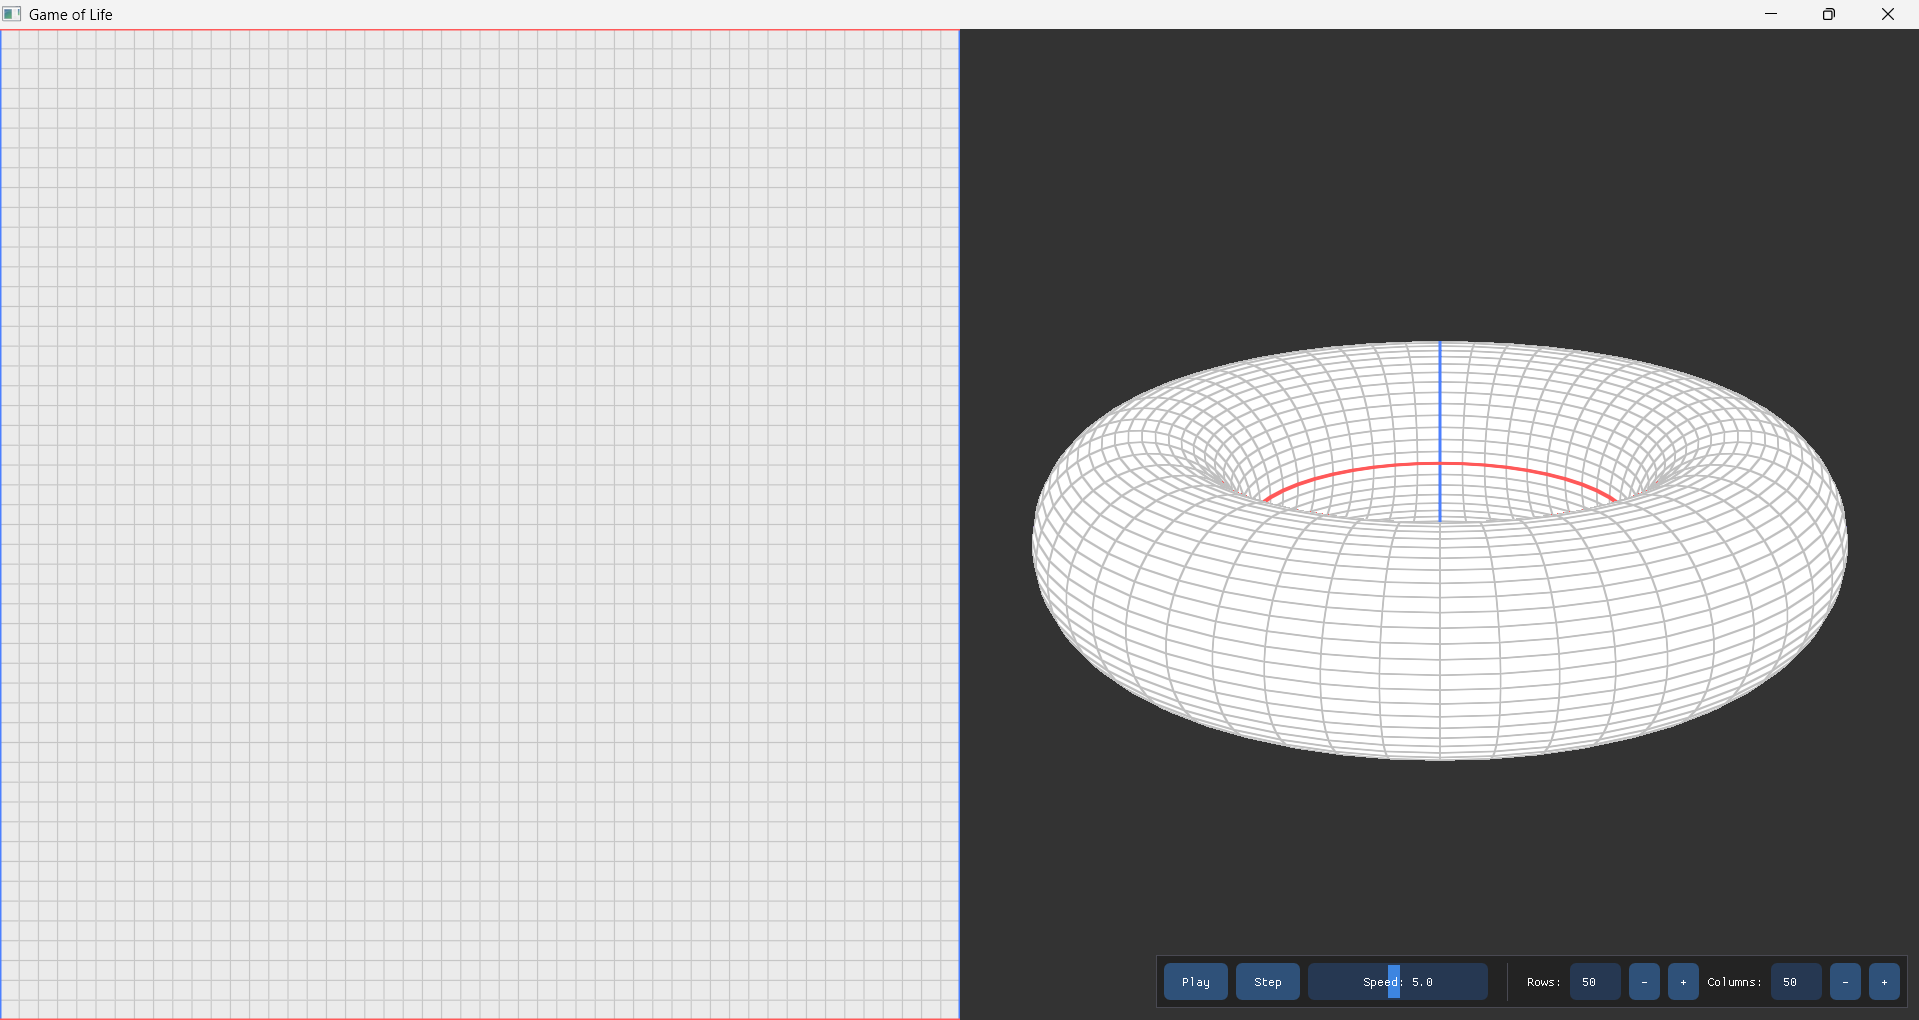
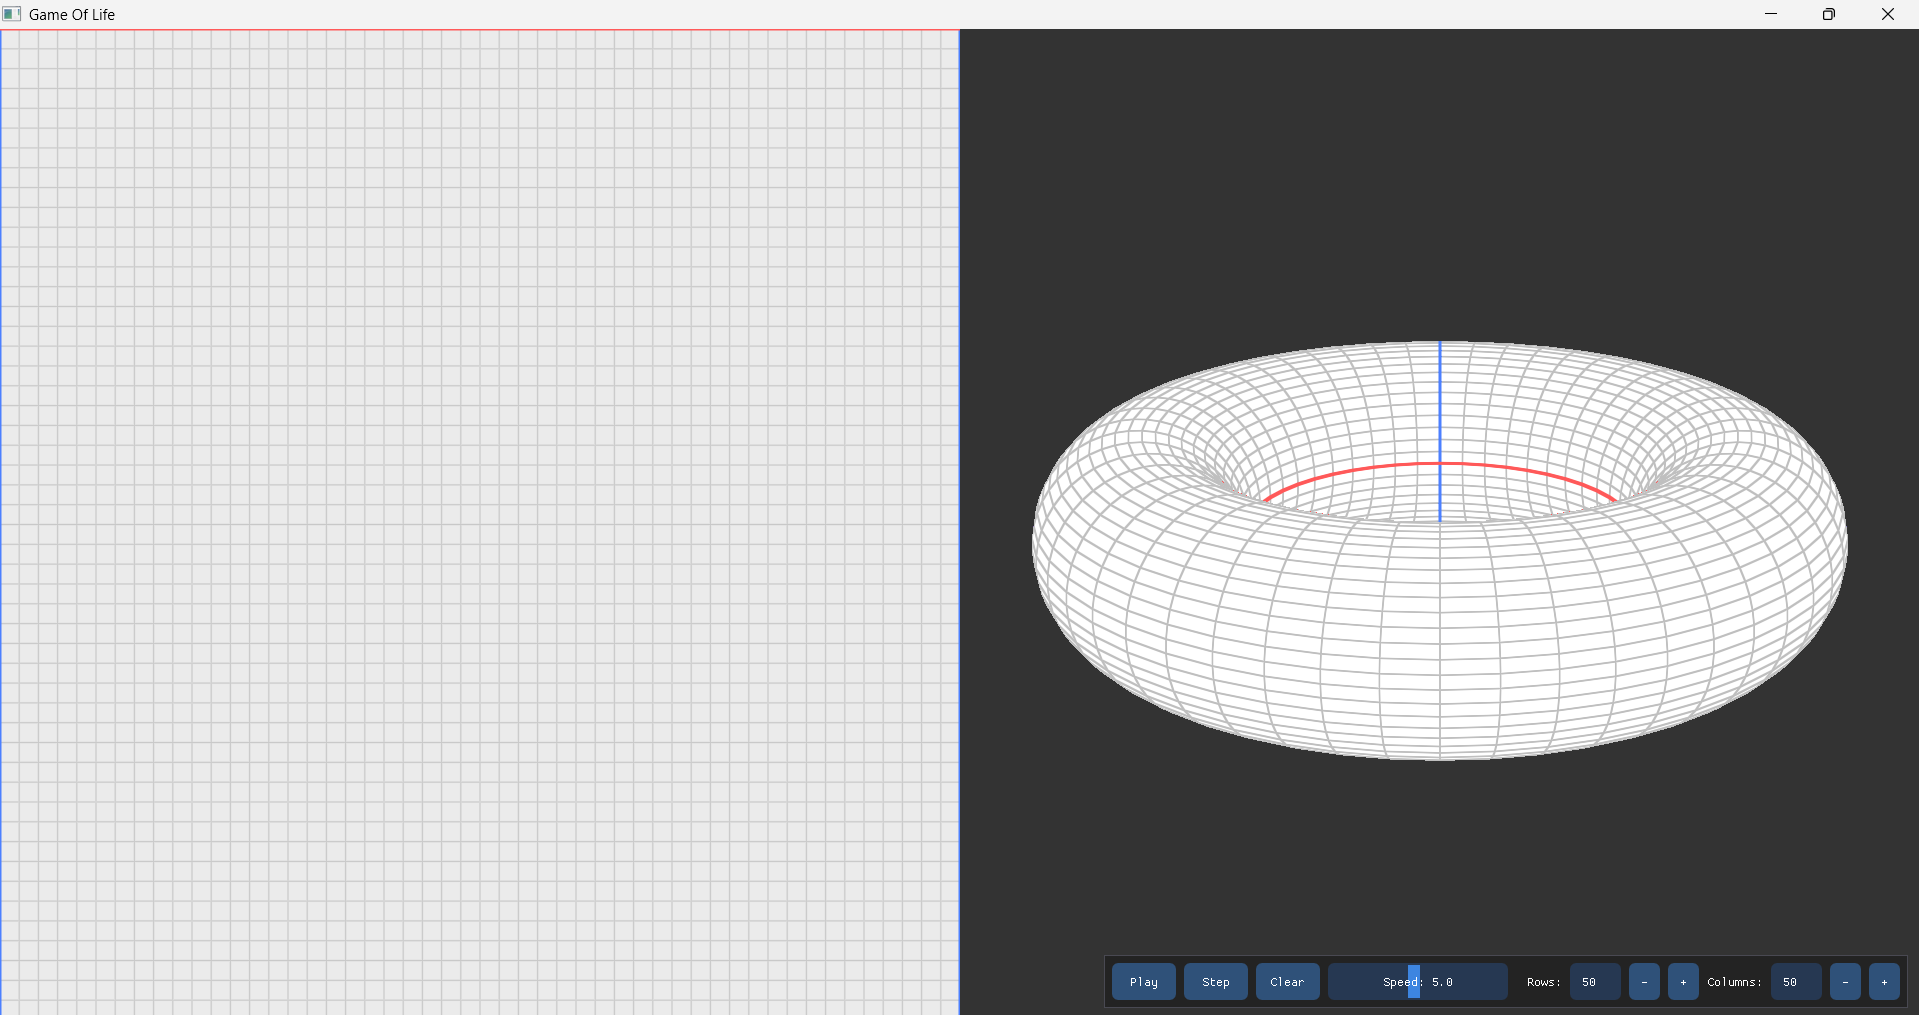
chore: update documentation and assets

diff --git a/src/core/gameLogic.cpp b/src/core/gameLogic.cpp
@@ -32,6 +32,8 @@ namespace core {
                 aliveNeighbours += currentBuffer_[yp * gridWidth_ + xp];
 
                 const uint8_t alive = currentBuffer_[y * gridWidth_ + x] ? 1u : 0u; // current cell state
+
+                // Conway's rules
                 nextBuffer_[y * gridWidth_ + x] = alive ? (aliveNeighbours == 2 || aliveNeighbours == 3) : (aliveNeighbours == 3);
             }
         }

diff --git a/README.md b/README.md
@@ -9,9 +9,9 @@ Beyond its visual appeal, the project also serves as:
 * A minimal **computational model of population growth and decay**, based on local interaction rules.
 * A **didactic visualization of toroidal geometry**, showing how a 2D grid can be seamlessly wrapped into a 3D surface.
 * An example of **modern C++ and OpenGL architecture**, with modular systems for logic, rendering, and UI integration.
-* A compact and extensible base for experimentation with **GPU simulations**, **shader-based visualizations**, or **scientific cellular automata** (see [CONTRIBUTE.md](CONTRIBUTE.md) for more info).
+* A compact and extensible base for experimentation with **GPU simulations**, **shader-based visualizations**, or **scientific cellular automata** (see [CONTRIBUTING.md](CONTRIBUTING.md) for more info).
 
-The codebase emphasizes clarity, maintainability, and clean design—ideal for studying or extending.
+The codebase emphasizes clarity, maintainability, and clean design (ideal for studying or extending).
 
 ---
 
@@ -57,8 +57,8 @@ The following image corresponds to the app layout:
 
 The window is divided into two synchronized viewports and a compact toolbar:
 
-* **Left — 2D grid**: interactive editor (toggle cells with left click), hover highlight, and grid overlay.
-* **Right — 3D torus**: orbit camera (left click + drag) and zoom (scroll), showing the same state wrapped on a toroidal surface.
+* **Left - 2D grid**: interactive editor (toggle cells with left click), hover highlight, and grid overlay.
+* **Right - 3D torus**: orbit camera (left click + drag) and zoom (scroll), showing the same state wrapped on a toroidal surface.
 * **Toolbar (bottom-right)**: Play/Pause, Step, Clear, **Speed** slider, and **Rows / Columns** (applied on *Enter* or when the field loses focus).
 
 ---
@@ -80,7 +80,7 @@ The window is divided into two synchronized viewports and a compact toolbar:
 
 The project supports both **command-line builds** and **Visual Studio integration**. All presets use **vcpkg manifests** and a **Ninja generator**, ensuring reproducible, IDE-independent builds.
 
-> ⚙ The paths and presets are designed for Visual Studio 2022 Community, but they can be easily adapted for Professional or Enterprise editions by changing the Visual Studio folder name in the PowerShell examples.
+> The paths and presets are designed for Visual Studio 2022 Community, but they can be easily adapted for Professional or Enterprise editions by changing the Visual Studio folder name in the PowerShell examples.
 
 ### A) From terminal (no IDE)
 
@@ -99,7 +99,7 @@ cmake --preset x64-release-vcpkg
 cmake --build --preset x64-release-vcpkg
 ```
 
-If using a regular PowerShell (not the Developer shell), you can manually initialize MSVC:
+If using a regular PowerShell (not the developer shell), you can manually initialize MSVC:
 
 ```powershell
 $vsdev = "$env:ProgramFiles\Microsoft Visual Studio\2022\Community\Common7\Tools\VsDevCmd.bat"
@@ -147,6 +147,6 @@ The repository is currently optimized for **Windows + MSVC**, but it can be easi
 
 All vcpkg paths are **relative**, and no global environment variables are required.
 
-For details on contributing Linux or macOS build configurations, see **[CONTRIBUTE.md](CONTRIBUTE.md)**.
+For details on contributing Linux or macOS build configurations, see **[CONTRIBUTING.md](CONTRIBUTING.md)**.
 
 ---
